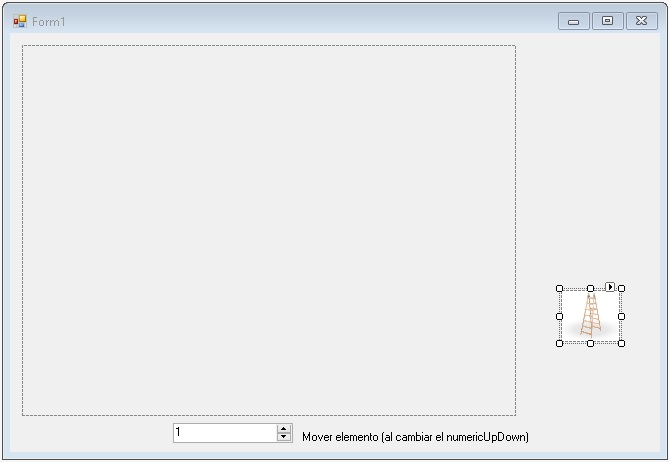
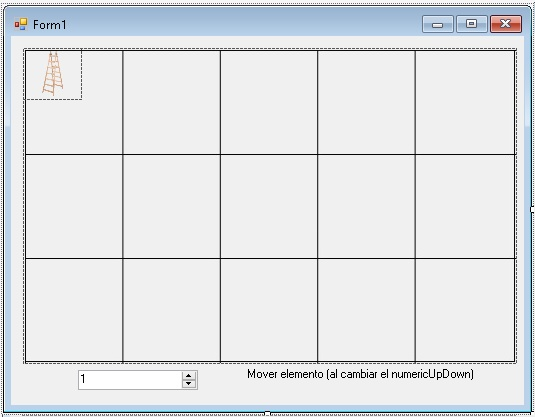
actualización

Changed region(s): [[0.0, 0.0, 1.0, 1.0]]

diff --git a/TableroConPanel/TableroConPanel/FormPrincipal.cs b/TableroConPanel/TableroConPanel/FormPrincipal.cs
@@ -15,11 +15,11 @@ namespace TableroConPanel
         {
             InitializeComponent();
         }
- 
+
         private void Form1_Load(object sender, EventArgs e)
         {
         }
-            
+
         private void nudNumeroCelda_ValueChanged(object sender, EventArgs e)
         {
             int cel = Convert.ToInt32(nudNumeroCelda.Value);
@@ -29,8 +29,8 @@ namespace TableroConPanel
         private void PictureBoxEscalera_Click(object sender, EventArgs e)
         {
             int cel = Convert.ToInt32(nudNumeroCelda.Value);
-            int fila=0;
-            int columna=0;
+            int fila = 0;
+            int columna = 0;
             Util.CellToFilaColumna(cel, ref fila, ref columna);
 
             toolTip1.Show($"celda:{cel} - {{fila,columna}}:{{ {fila},{columna}}}; ", pictureBoxEscalera, 5000);
@@ -46,8 +46,8 @@ namespace TableroConPanel
             int columna = 0, fila = 0;
             Util.CellToFilaColumna(cel, ref fila, ref columna);
 
-            pictureBoxEscalera.Top = altoFila * fila+ altoFila/2;
-            pictureBoxEscalera.Left = anchoColumna * columna + anchoColumna/2;
+            pictureBoxEscalera.Top = altoFila * fila + altoFila / 2;
+            pictureBoxEscalera.Left = anchoColumna * columna + anchoColumna / 2;
 
             //alternativa
             //pictureBoxEscalera.Location=new Point { Y = altoFila* fila,X = anchoColumna * columna }; 
@@ -59,7 +59,12 @@ namespace TableroConPanel
         //el cambiar el numero de filas y columnas
         private void pnlTablero_Paint(object sender, PaintEventArgs e)
         {
-            
+
+            //
+            //este evento no está activo ahora!
+            //como fondo del panel se coloca una imagen de la cuadricula
+            //
+
             int anchoColumna = pnlTablero.Width / Util.Columnas;
             int altoFila = pnlTablero.Height / Util.Renglones;
 
@@ -74,19 +79,19 @@ namespace TableroConPanel
 
             for (int fila = 0; fila < Util.Renglones; fila++)
             {
-                int x1 = pnlTablero.Width; int y0 = altoFila * fila;           
-                int x0 = 0; int y1 = y0;               
+                int x1 = pnlTablero.Width; int y0 = altoFila * fila;
+                int x0 = 0; int y1 = y0;
                 g.DrawLine(pen, x0, y0, x1, y1);
             }
 
             for (int columna = 0; columna < Util.Columnas; columna++)
             {
-                int x0 = anchoColumna * columna; int y0 = 0; 
+                int x0 = anchoColumna * columna; int y0 = 0;
                 int x1 = x0; int y1 = pnlTablero.Height;
                 g.DrawLine(pen, x0, y0, x1, y1);
             }
 
-            g.DrawRectangle(pen, 0, 0, pnlTablero.Width-2, pnlTablero.Height-2); 
+            g.DrawRectangle(pen, 0, 0, pnlTablero.Width - 2, pnlTablero.Height - 2);
         }
     }
 }

diff --git a/TableroConPanel/TableroConPanel/FormPrincipal.Designer.cs b/TableroConPanel/TableroConPanel/FormPrincipal.Designer.cs
@@ -88,13 +88,13 @@
             // pnlTablero
             // 
             this.pnlTablero.BackColor = System.Drawing.SystemColors.HighlightText;
+            this.pnlTablero.BackgroundImage = global::TableroConPanel.Properties.Resources.fondo;
             this.pnlTablero.BackgroundImageLayout = System.Windows.Forms.ImageLayout.Stretch;
             this.pnlTablero.Controls.Add(this.pictureBoxEscalera);
             this.pnlTablero.Location = new System.Drawing.Point(12, 12);
             this.pnlTablero.Name = "pnlTablero";
             this.pnlTablero.Size = new System.Drawing.Size(494, 316);
             this.pnlTablero.TabIndex = 0;
-            this.pnlTablero.Paint += new System.Windows.Forms.PaintEventHandler(this.pnlTablero_Paint);
             // 
             // FormPrincipal
             // 
